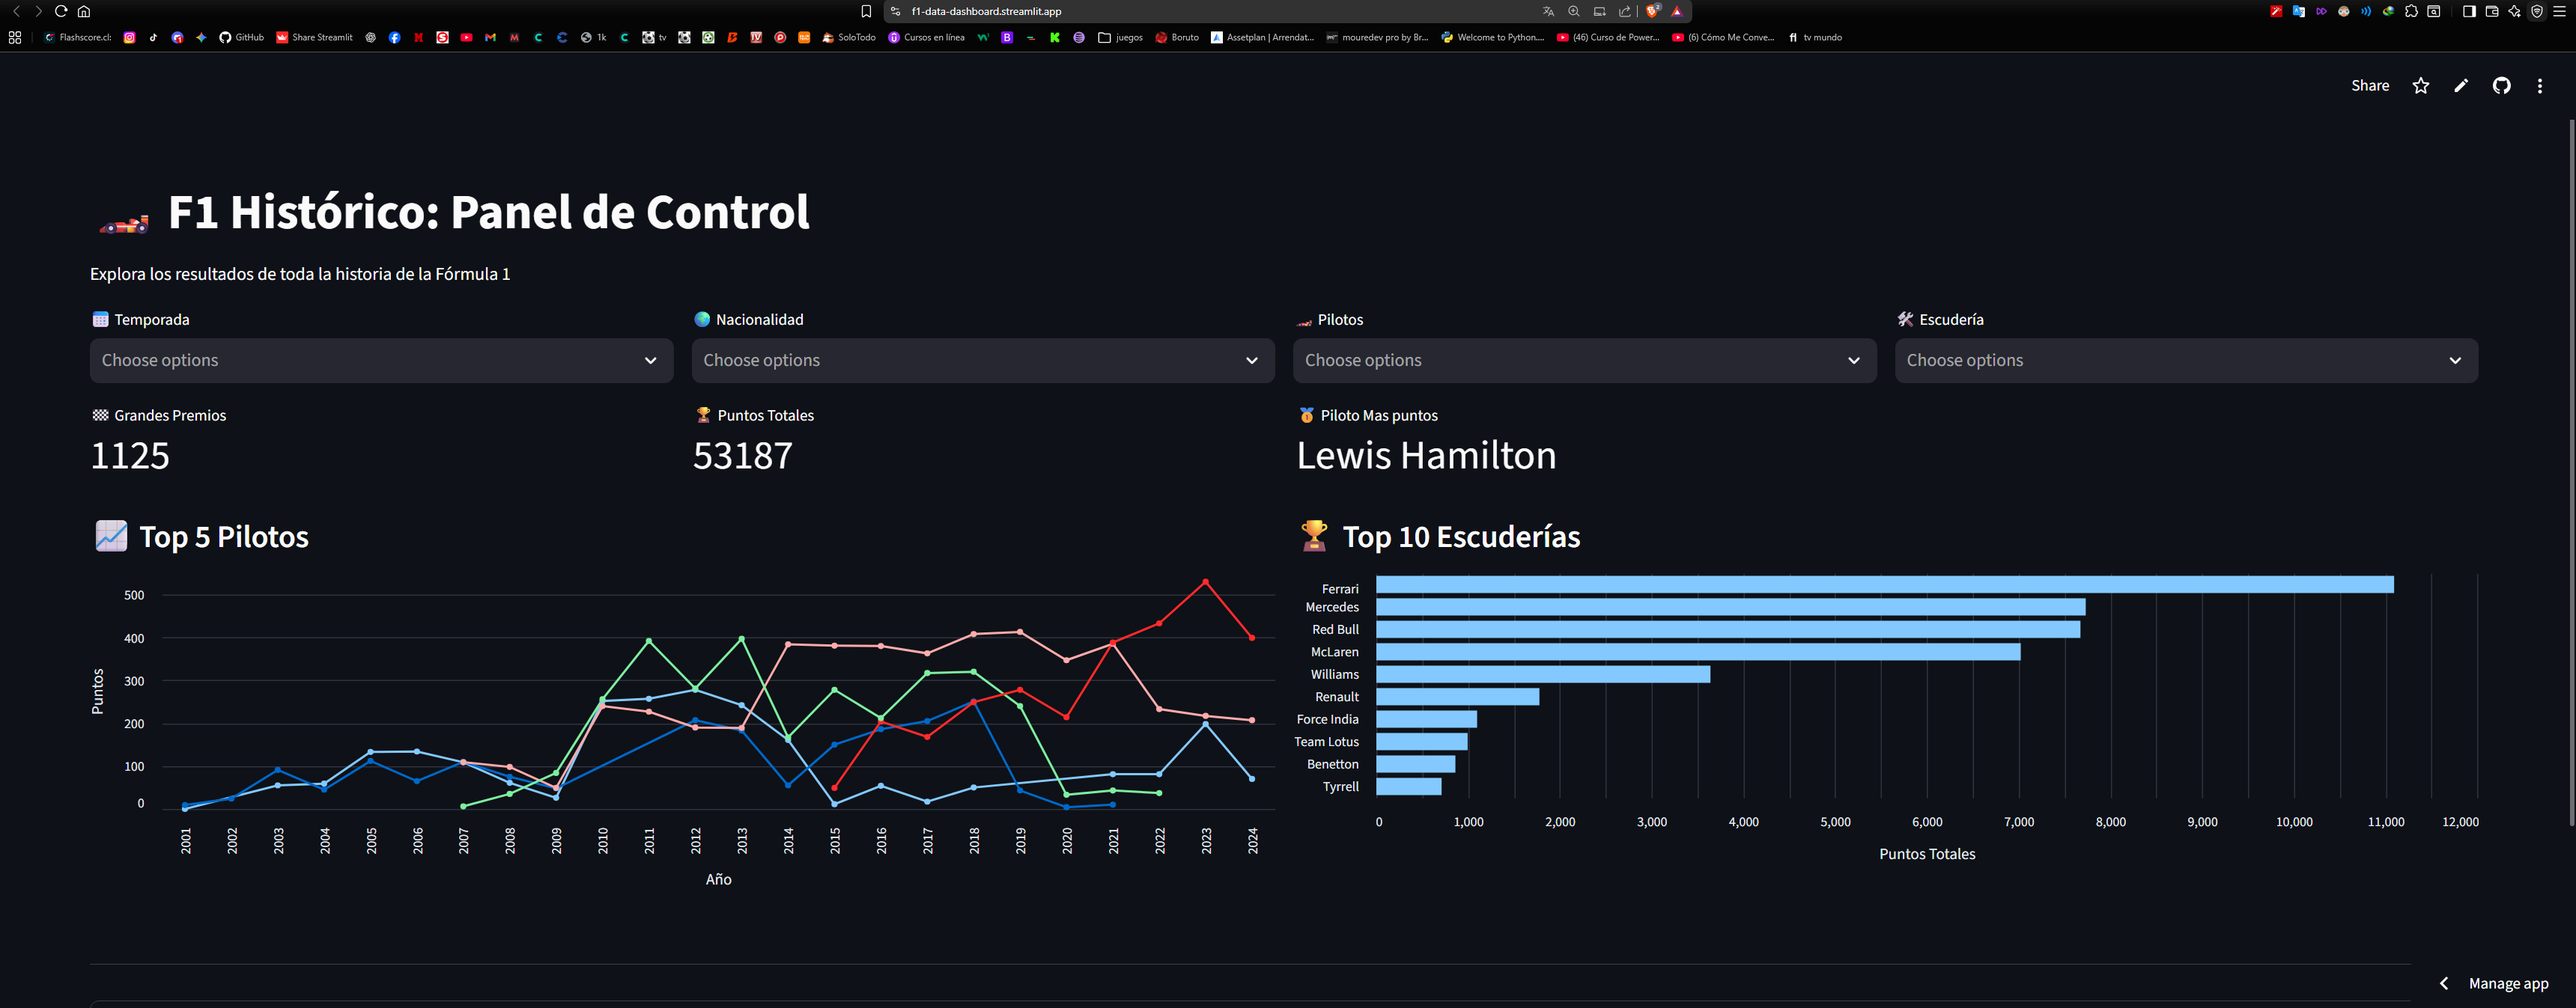
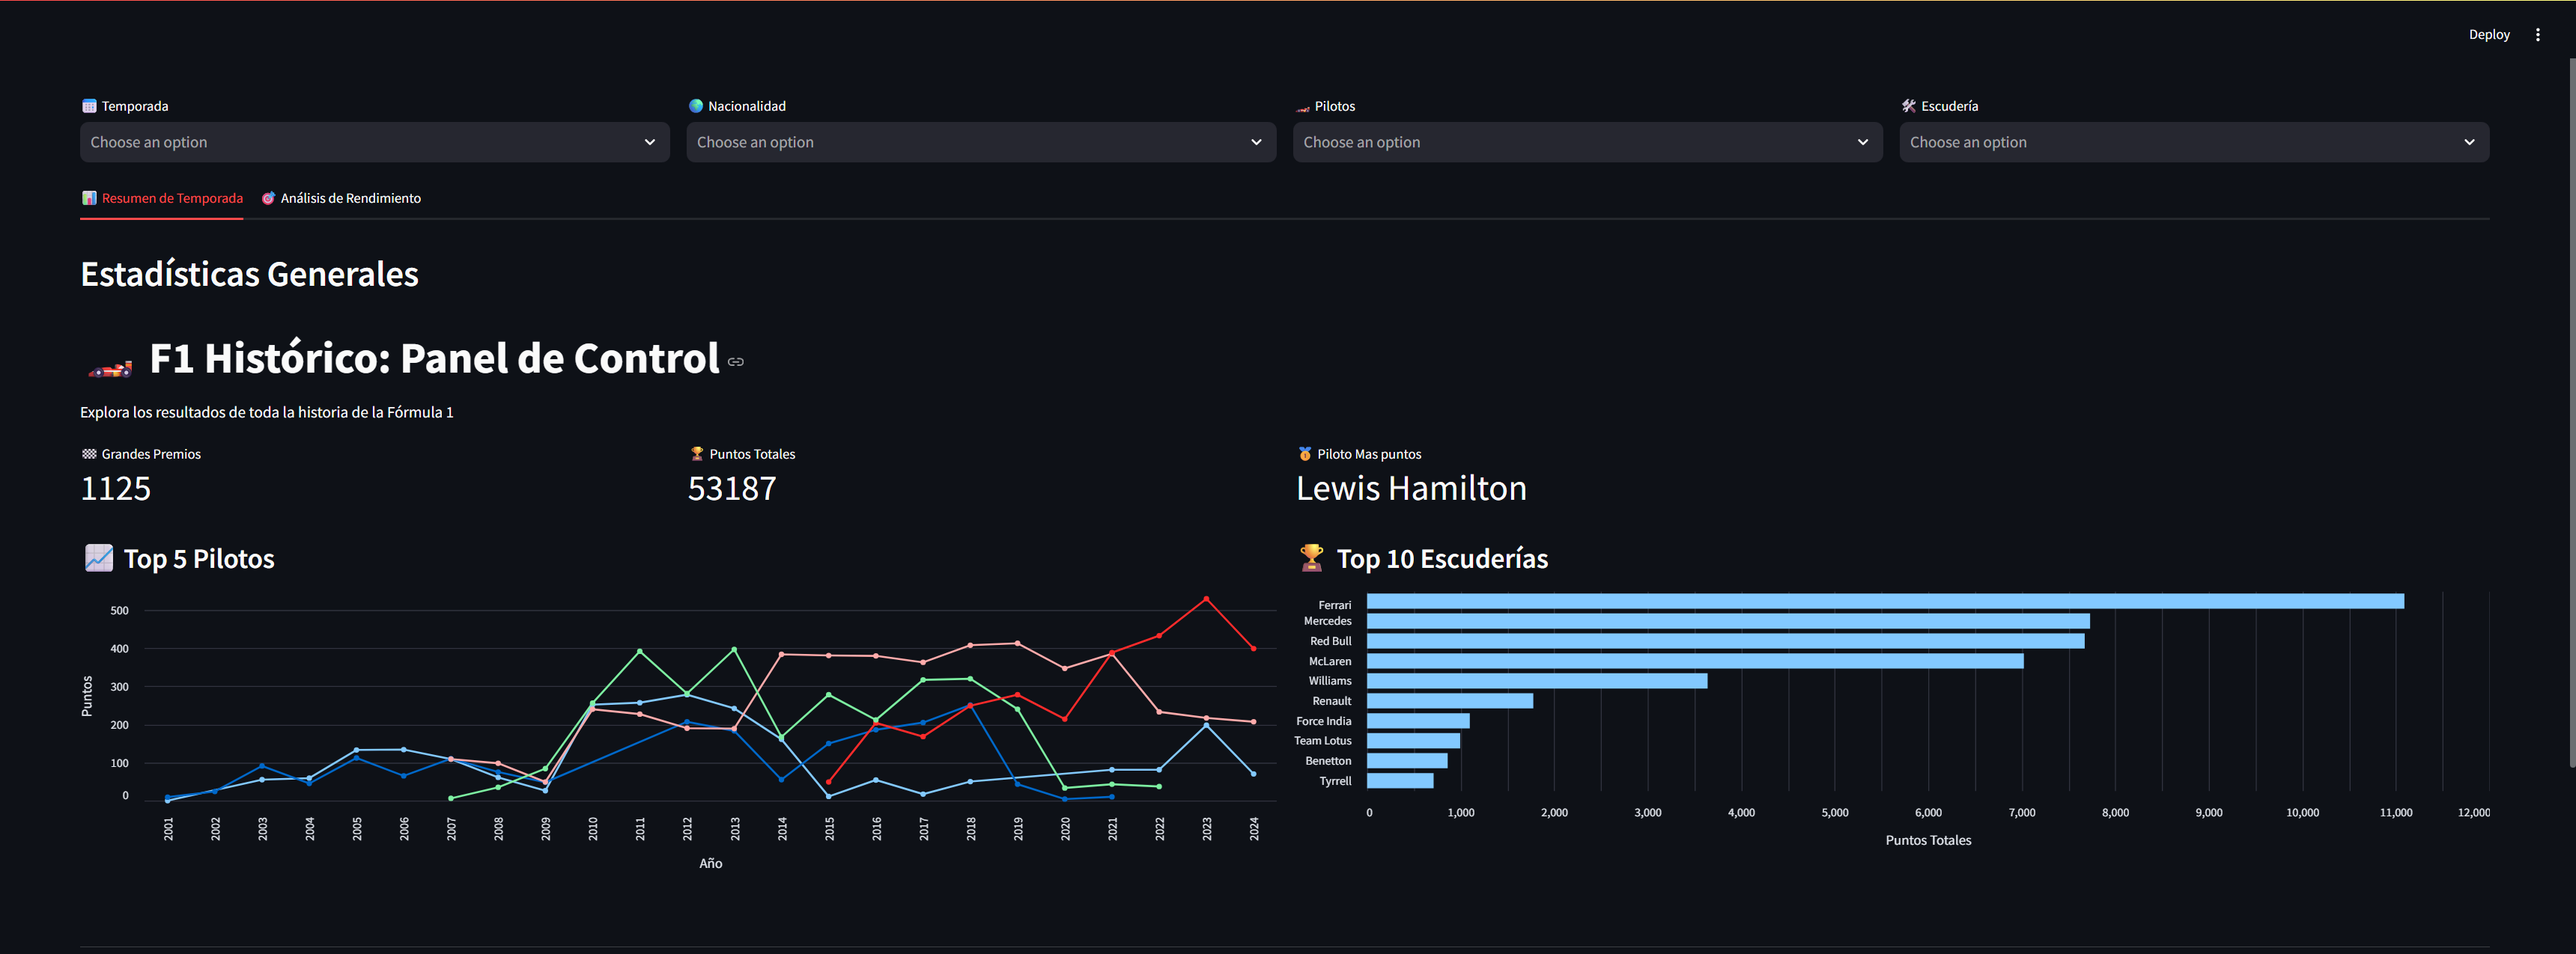
v2.0: Reestructuración con Tabs e Interactividad Avanzada

diff --git a/app.py b/app.py
@@ -12,7 +12,7 @@ def cargar_datos_f1():
     conn = sqlite3.connect("data/f1_proyecto.db")
 
     query = """ 
-            SELECT ra.raceId, ra.year, ra.name AS race_name, d.nationality AS nacionalidad,  d.forename || ' ' || d.surname AS nombre, c.name AS escuderia , r.grid, r.positionOrder, r.points AS puntos
+            SELECT ra.raceId, d.driverId, ra.year, ra.name AS race_name, d.nationality AS nacionalidad,  d.forename || ' ' || d.surname AS nombre, c.name AS escuderia , r.grid, r.positionOrder, r.points AS puntos
             FROM results r 
             JOIN races ra ON r.raceId = ra.raceID
             JOIN drivers d ON r.driverId = d.driverId
@@ -83,11 +83,19 @@ if select_constructor:
     
 
 #wiht tab 2  Análisis de Rendimiento"
+
+# 1. Calculamos cuántos pilotos corrieron en CADA carrera
+# (Agrupa por carrera y cuenta los IDs de los pilotos)
+df_filtrado['total_pilotos'] = df_filtrado.groupby('raceId')['driverId'].transform('count')
+# 2. Corregimos el Grid
+# La lógica: Si grid es 0, ponle el número total de pilotos de ESA carrera. Si no, deja el grid original.
+df_filtrado['grid_real'] = df_filtrado.apply(
+    lambda row: row['total_pilotos'] if row['grid'] == 0 else row['grid'], axis=1)
 # Calculamos la diferencia (Posición salida - Posición llegada)
-df_filtrado['diferencia'] = df_filtrado['grid'] - df_filtrado['positionOrder']
+df_filtrado['diferencia'] = df_filtrado['grid_real'] - df_filtrado['positionOrder']
 # Aplicamos filtro: Solo las que son mayores a 0 (Remontadas reales)
 # Y filtramos grid > 0 porque grid=0 significa que salió desde el Pit Lane o error
-df_remontada = df_filtrado[(df_filtrado['diferencia'] > 0) & (df_filtrado['grid'] > 0)]
+df_remontada = df_filtrado[(df_filtrado['diferencia'] > 0)]
 
 
 
@@ -145,7 +153,7 @@ with tab1:
             df_lineas = df_plot.groupby(['year', 'nombre'])['puntos'].sum().reset_index()
             
             chart = alt.Chart(df_lineas).mark_line(point=True).encode(
-                x=alt.X('year:O', title='Año'),
+                x=alt.X('year:O', title='Año' ),
                 y=alt.Y('puntos:Q', title='Puntos'),
                 color=alt.Color('nombre:N', legend=None),
                 tooltip=['nombre', 'year', 'puntos']
@@ -180,22 +188,58 @@ with tab2:
     st.header("🎯 Análisis de Rendimiento: Las Grandes Remontadas")
     st.write("Este análisis muestra únicamente los casos donde un piloto terminó en una mejor posición de la que comenzó.")
     
+    
+    
+    
+    
+    
+    
+    # Metricas claves (kpi)
+
+    kpi3 = st.columns(1)[0]
+
+    # Valores iniciales (plan B por si no hay datos)
+    #posicion_totales = 0
+    #piloto_mas_puntos = "N/A"
+
+    # Solo calculamos si el filtro trajo algo
+    if not df_remontada.empty:
+        #mejor_remontada = df_filtrado["raceId"].nunique()
+        posicion_totales = int(df_filtrado["diferencia"].sum())
+
+        # Agrupamos por nombre, sumamos diferencia, y pedimos el ID (nombre) del Máximo (.idxmax())
+        gano_mas_posiciones = df_filtrado.groupby("nombre")["diferencia"].sum().idxmax()
+
+    #kpi1.metric("🏁 Grandes Premios", carreras_totales)
+    #kpi2.metric("🏆 Puntos Totales", puntos_totales)
+    kpi3.metric("🥇 Piloto que gano mas Posiciones en la historia", gano_mas_posiciones)
+    
+    
+    
+    
+    
+    
+    
+    
+    
+    
     # Slider para filtrar por cuántas posiciones remontó (opcional pero se ve muy pro)
     min_remontada = st.slider('Filtrar por minimo de posiciones ganadas: ',1,15,1)
     df_tab2 = df_filtrado[df_filtrado['diferencia'] >= min_remontada]
 
+
+    
     
     # Crear el gráfico de dispersión interactivo
     scatter = alt.Chart(df_tab2).mark_circle(size=80, opacity=0.4).encode(
-        x=alt.X('grid:Q', title='Posicion de salida (Grid)'),
+        x=alt.X('grid_real:Q', title='Posicion de salida (Grid)'),
         y=alt.Y('positionOrder:Q', title='Posicion de llegada'),
-        #xOffset=alt.datum(0.5),
         color=alt.Color('escuderia:N', title='Escuderia'),
         size=alt.Size('diferencia:Q', title='Posiciones Ganadas'),
         tooltip=[alt.Tooltip('nombre:N', title='Piloto'),
         alt.Tooltip('year:O', title='Año'),
         alt.Tooltip('race_name:N', title='Carrera'),
-        alt.Tooltip('grid:Q', title='Salió'),
+        alt.Tooltip('grid_real:Q', title='Salió'),
         alt.Tooltip('positionOrder:Q', title='Llegó'),
         alt.Tooltip('diferencia:Q', title='Ganó')]
     ).properties(height=500).interactive()
@@ -204,6 +248,6 @@ with tab2:
     st.altair_chart(scatter, use_container_width=True)
     
     st.subheader("📋 Detalle de las remontadas en el gráfico")
-    st.dataframe(df_tab2[['year', 'nombre', 'race_name', 'grid', 'positionOrder', 'diferencia']].sort_values('diferencia', ascending=False), hide_index=True)
+    st.dataframe(df_tab2[['year', 'nombre', 'race_name', 'grid_real', 'positionOrder', 'diferencia']].sort_values('diferencia', ascending=False), hide_index=True)
     
     st.info("💡 Consejo: Pasa el ratón sobre los puntos para ver los detalles del piloto y la carrera.")

diff --git a/a.py b/a.py
@@ -1,0 +1,29 @@
+import pandas as pd
+import sqlite3
+import os
+
+# 1. Conectar a la base de datos (se crea si no existe)
+# Fíjate que en tu imagen la DB está dentro de la carpeta 'data'
+conexion = sqlite3.connect('data1/f1_proyecto.db')
+
+# 2. ESTA ES LA VARIABLE QUE DICES
+# Una lista con los nombres exactos de tus archivos (sin el .csv para hacerlo más limpio)
+lista_archivos = ['constructors', 'drivers', 'races', 'results']
+
+# 3. El ciclo "For" (el motor que hace el trabajo)
+for nombre in lista_archivos:
+    
+    # Construimos la ruta completa: "data/" + "constructors" + ".csv"
+    ruta_archivo = f"data1/{nombre}.csv"
+    
+    # Leemos el CSV
+    df = pd.read_csv(ruta_archivo)
+    
+    # Lo guardamos en la base de datos
+    # Usamos el mismo 'nombre' para la tabla (ej: tabla 'constructors')
+    df.to_sql(name=nombre, con=conexion, if_exists='replace', index=False)
+    
+    print(f"--> Archivo {nombre}.csv convertido a tabla SQL exitosamente.")
+
+# 4. Cerramos
+conexion.close()
